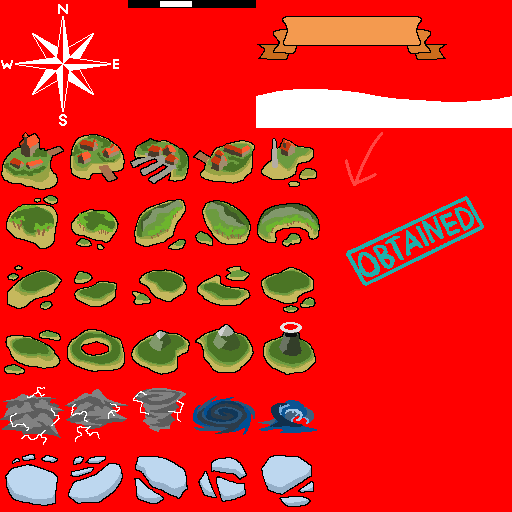
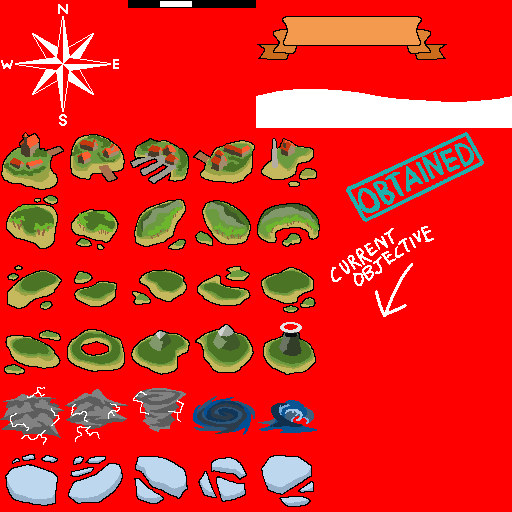
improved the current sortie annotation and created new chapter annotations which is a dashed line from the first sortie in a chapter to the last with text based on the clear/unlock status of the chapter

Changed region(s): [[0.6562, 0.25, 0.9375, 0.625]]

diff --git a/src/menus/sortie_selection_menu.py b/src/menus/sortie_selection_menu.py
@@ -459,6 +459,7 @@ class NameRibbon:
         font_registry["handwritten"].render(surface, self.text, rect.center, Color.BLACK, self.scale, style="center")
 
 class ChapterNameRibbon:
+    Y_OFFSET_IN_HEXES = 4
     CHAPTER_NAMES = [
         "training exercise",
         "patrol route",
@@ -485,10 +486,218 @@ class ChapterNameRibbon:
         left = min(position.x for position in hex_positions)
         right = max(position.x for position in hex_positions)
         bottom = max(position.y for position in hex_positions)
-        return pygame.Vector2((left + right) / 2, bottom + 3 * SortieNode.SIZE)
+        return pygame.Vector2(
+            (left + right) / 2,
+            bottom + self.Y_OFFSET_IN_HEXES*SortieNode.SIZE,
+        )
 
     def draw(self, surface, font_registry):
         self.ribbon.draw(surface, font_registry)
+
+
+class ChapterProgressAnnotation:
+    TEXT_SCALE = 1.0
+    TEXT_OFFSET = 24
+    TEXT_SURFACE_PADDING = 2
+    MIN_WIDTH = 160
+    CURVE_SAMPLE_SPACING = 6
+    DASH_LENGTH = 9
+    DASH_GAP = 6
+    LINE_WIDTH = 2
+    ARROWHEAD_LENGTH = 12
+    ARROWHEAD_ANGLE = math.radians(32)
+
+    def __init__(self, chapter, sortie_nodes):
+        self.chapter = chapter
+        self.sortie_nodes = sortie_nodes
+
+        hex_centers = [
+            pygame.Vector2(hex_to_pixel(*hex_tile, SortieNode.SIZE))
+            for sortie_node in sortie_nodes
+            for hex_tile in sortie_node.hexes
+        ]
+        leftmost_hex = min(hex_centers, key=lambda point: point.x)
+        rightmost_hex = max(hex_centers, key=lambda point: point.x)
+
+        width_extension = max(
+            0,
+            (self.MIN_WIDTH - (rightmost_hex.x - leftmost_hex.x))/2,
+        )
+        start_point = leftmost_hex + pygame.Vector2(-width_extension, 64)
+        end_point = rightmost_hex + pygame.Vector2(width_extension, 64)
+        mid_point = start_point.lerp(end_point, 0.5) + pygame.Vector2(0, 32)
+
+        self.curve_points = self.create_circular_curve(
+            start_point,
+            mid_point,
+            end_point,
+        )
+        mid_index = min(
+            range(len(self.curve_points)),
+            key=lambda index: self.curve_points[index].distance_squared_to(mid_point),
+        )
+        previous_point = self.curve_points[max(0, mid_index - 1)]
+        next_point = self.curve_points[min(len(self.curve_points) - 1, mid_index + 1)]
+        text_direction = (next_point - previous_point).normalize()
+        text_normal = pygame.Vector2(-text_direction.y, text_direction.x)
+        if text_normal.y < 0:
+            text_normal *= -1
+        self.text_position = (
+            self.curve_points[mid_index] + text_normal*self.TEXT_OFFSET
+        )
+        self.text_angle = math.degrees(math.atan2(
+            -text_direction.y,
+            text_direction.x,
+        ))
+
+    @classmethod
+    def create_circular_curve(cls, start_point, mid_point, end_point):
+        start_x, start_y = start_point
+        mid_x, mid_y = mid_point
+        end_x, end_y = end_point
+        determinant = 2*(
+            start_x*(mid_y - end_y)
+            + mid_x*(end_y - start_y)
+            + end_x*(start_y - mid_y)
+        )
+        if abs(determinant) < 0.001:
+            return [start_point, mid_point, end_point]
+
+        start_length_squared = start_point.length_squared()
+        mid_length_squared = mid_point.length_squared()
+        end_length_squared = end_point.length_squared()
+        center = pygame.Vector2(
+            (
+                start_length_squared*(mid_y - end_y)
+                + mid_length_squared*(end_y - start_y)
+                + end_length_squared*(start_y - mid_y)
+            ) / determinant,
+            (
+                start_length_squared*(end_x - mid_x)
+                + mid_length_squared*(start_x - end_x)
+                + end_length_squared*(mid_x - start_x)
+            ) / determinant,
+        )
+        radius = center.distance_to(start_point)
+
+        start_angle = math.atan2(start_y - center.y, start_x - center.x)
+        mid_angle = math.atan2(mid_y - center.y, mid_x - center.x)
+        end_angle = math.atan2(end_y - center.y, end_x - center.x)
+        counterclockwise_span = (end_angle - start_angle) % math.tau
+        counterclockwise_mid_span = (mid_angle - start_angle) % math.tau
+        if counterclockwise_mid_span <= counterclockwise_span:
+            angle_span = counterclockwise_span
+        else:
+            angle_span = -((start_angle - end_angle) % math.tau)
+
+        arc_length = radius*abs(angle_span)
+        num_segments = max(2, math.ceil(arc_length / cls.CURVE_SAMPLE_SPACING))
+        return [
+            center + get_vec(
+                radius,
+                start_angle + angle_span*segment/num_segments,
+            )
+            for segment in range(num_segments + 1)
+        ]
+
+    def get_text(self):
+        if all(node.cleared for node in self.sortie_nodes):
+            return "secured waters"
+
+        current_sortie = DataFiles.save_file["sortie_progress"]
+        if any(node.index == current_sortie for node in self.sortie_nodes):
+            return "operation plan"
+        return None
+
+    def get_curve_points(self):
+        return [point + anchor() for point in self.curve_points]
+
+    def draw_text(self, surface, font_registry, text):
+        font = font_registry["handwritten"]
+        text_size = (
+            math.ceil(font.get_width(text, self.TEXT_SCALE, 0)),
+            math.ceil(font.get_height(text, self.TEXT_SCALE, 0)),
+        )
+        text_surface = pygame.Surface(
+            (
+                text_size[0] + 2*self.TEXT_SURFACE_PADDING,
+                text_size[1] + 2*self.TEXT_SURFACE_PADDING,
+            ),
+            pygame.SRCALPHA,
+        )
+        font.render(
+            text_surface,
+            text,
+            text_surface.get_rect().center,
+            Color.WHITE,
+            self.TEXT_SCALE,
+            style="center",
+        )
+        rotated_text = pygame.transform.rotate(text_surface, self.text_angle)
+        rotated_text_rect = rotated_text.get_rect(
+            center=self.text_position + anchor()
+        )
+        surface.blit(rotated_text, rotated_text_rect)
+
+    @classmethod
+    def draw_dashed_curve(cls, surface, points):
+        drawing_dash = True
+        distance_until_toggle = cls.DASH_LENGTH
+
+        for segment_start, segment_end in zip(points, points[1:]):
+            direction = segment_end - segment_start
+            segment_length = direction.length()
+            if segment_length == 0:
+                continue
+            direction /= segment_length
+            position = segment_start
+            distance_remaining = segment_length
+
+            while distance_remaining > 0:
+                step = min(distance_remaining, distance_until_toggle)
+                next_position = position + direction*step
+                if drawing_dash:
+                    pygame.draw.line(
+                        surface,
+                        Color.WHITE,
+                        position,
+                        next_position,
+                        width=cls.LINE_WIDTH,
+                    )
+                position = next_position
+                distance_remaining -= step
+                distance_until_toggle -= step
+
+                if distance_until_toggle <= 0.001:
+                    drawing_dash = not drawing_dash
+                    distance_until_toggle = (
+                        cls.DASH_LENGTH if drawing_dash else cls.DASH_GAP
+                    )
+
+    def draw(self, surface, font_registry):
+        text = self.get_text()
+        if text is None:
+            return
+
+        curve_points = self.get_curve_points()
+        self.draw_dashed_curve(surface, curve_points)
+
+        arrow_direction = (curve_points[-1] - curve_points[-2]).normalize()
+        backwards_angle = math.atan2(-arrow_direction.y, -arrow_direction.x)
+        for angle_offset in (-self.ARROWHEAD_ANGLE, self.ARROWHEAD_ANGLE):
+            arrow_side = curve_points[-1] + get_vec(
+                self.ARROWHEAD_LENGTH,
+                backwards_angle + angle_offset,
+            )
+            pygame.draw.line(
+                surface,
+                Color.WHITE,
+                curve_points[-1],
+                arrow_side,
+                width=self.LINE_WIDTH,
+            )
+
+        self.draw_text(surface, font_registry, text)
 
 
 class Background:
@@ -965,6 +1174,7 @@ class SortieSelectionMenu:
         self.background = Background()
         self.chapter_regions = self.create_chapter_regions()
         self.chapter_name_ribbons = self.create_chapter_name_ribbons()
+        self.chapter_progress_annotations = self.create_chapter_progress_annotations()
 
         self.fogs = [
             Fog(
@@ -1062,6 +1272,20 @@ class SortieSelectionMenu:
                 continue
             ribbons.append(ChapterNameRibbon(chapter, chapter_nodes))
         return ribbons
+
+    def create_chapter_progress_annotations(self):
+        annotations = []
+        for chapter in self.get_chapters():
+            chapter_nodes = [
+                sortie_node for sortie_node in self.sortie_nodes
+                if sortie_node.chapter == chapter
+            ]
+            if len(chapter_nodes) == 0:
+                continue
+            annotations.append(
+                ChapterProgressAnnotation(chapter, chapter_nodes)
+            )
+        return annotations
 
     @classmethod
     def clamp_camera_center(cls, center):
@@ -1265,6 +1489,9 @@ class SortieSelectionMenu:
             location_ribbon.draw(surface, font_registry)
 
         self.background.draw_markings(surface, font_registry)
+
+        for chapter_progress_annotation in self.chapter_progress_annotations:
+            chapter_progress_annotation.draw(surface, font_registry)
         
         current_sortie_node = next(
             (
@@ -1274,10 +1501,10 @@ class SortieSelectionMenu:
             None
         )
         if current_sortie_node is not None:
-            arrow = DataFiles.sprites["sortie_selection"]["arrow"]
-            arrow_rect = arrow.get_rect()
-            arrow_rect.midbottom = current_sortie_node.get_bounding_rect().midtop
-            surface.blit(arrow, arrow_rect)
+            current_objective = DataFiles.sprites["sortie_selection"]["current_objective"]
+            current_objective_rect = current_objective.get_rect()
+            current_objective_rect.midbottom = current_sortie_node.get_bounding_rect().midtop
+            surface.blit(current_objective, current_objective_rect)
 
         for fog in self.fogs:
             fog.draw(surface)
